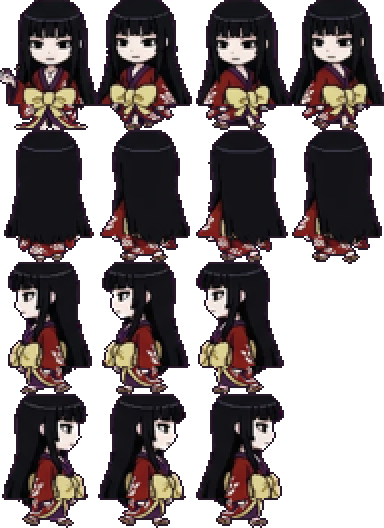
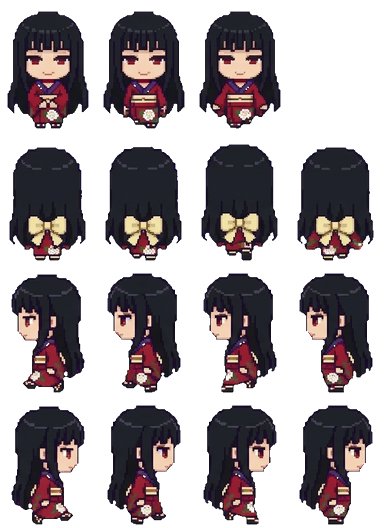
Redraw Ichihara Yuko in the shared art style
Claude-Session: https://claude.ai/code/session_01KaPsBYLrtbRfMYNG2xeBCK

diff --git a/docs/app.js b/docs/app.js
@@ -75,7 +75,7 @@ function spr(cat, k, col, sc) {
   return `<div class="clip" style="width:${it[2] * sc}px;height:${it[3] * sc}px;POS"><img class="px" src="assets/decor/${cat}.png" alt="" style="width:${S.sw * sc}px;height:${S.sh * sc}px;margin-left:${-col * S.cw * sc}px;margin-top:${-i * S.ch * sc}px"></div>`;
 }
 const icon = (k, sz) => `<span class="itm" style="width:${sz}px;height:${sz}px"><img class="px" src="assets/ui/items.png" alt="" style="width:${IT.length * sz}px;height:${sz}px;margin-left:${-ITM[k].i * sz}px"></span>`;
-const face = (id, w) => { const s = w / 96; return `<img class="px" src="assets/ch/${id}.webp?v=59" alt="" style="position:absolute;width:${384 * s}px;height:${528 * s}px;left:${-(96 * s - w) / 2}px;top:0;max-width:none">`; };
+const face = (id, w) => { const s = w / 96; return `<img class="px" src="assets/ch/${id}.webp?v=60" alt="" style="position:absolute;width:${384 * s}px;height:${528 * s}px;left:${-(96 * s - w) / 2}px;top:0;max-width:none">`; };
 
 // ---------- 저장 ----------
 let fb = null, user = null, S = null, saveT = null;
@@ -143,7 +143,7 @@ function sleepHTML(id, r, dy) {
   const pos = r.a && r.a[0] === 'bed' ? 'left:3%;bottom:20%' : r.b && r.b[0] === 'bed' ? 'right:3%;bottom:20%' : 'left:calc(50% - 44px);bottom:6%';
   const s = 36 / 96;
   return `<div style="position:absolute;width:88px;height:56px;${pos};z-index:${dy ? 4 : 5};${dy ? `transform:translate(12px,${dy}px)` : ''}"><div style="position:absolute;inset:0;filter:brightness(.22)">
-    <div style="position:absolute;left:11px;top:1px;width:36px;height:50px;overflow:hidden;transform:rotate(-90deg)"><img class="px" src="assets/ch/${id}.webp?v=59" alt="" style="width:${384 * s}px;height:${528 * s}px;max-width:none;margin-top:${-132 * s}px"></div>
+    <div style="position:absolute;left:11px;top:1px;width:36px;height:50px;overflow:hidden;transform:rotate(-90deg)"><img class="px" src="assets/ch/${id}.webp?v=60" alt="" style="width:${384 * s}px;height:${528 * s}px;max-width:none;margin-top:${-132 * s}px"></div>
     <div style="position:absolute;left:19px;top:19px;width:67px;height:29px;border:2px solid var(--ink);border-radius:8px 6px 4px 4px;background:#8ccff5;background-image:repeating-linear-gradient(90deg,transparent 0 10px,rgba(255,255,255,.5) 10px 13px)"></div></div>
     ${dy ? '' : '<span class="emo" style="left:8px;top:-22px;color:#5b6bd6">Z z z</span>'}</div>`;
 }
@@ -153,8 +153,8 @@ function roomHTML(id, o, scale) {
     <div class="floor" style="background-color:${PAL[r.fc][1]};background-image:${tileUrl('floor', r.fl)}"></div>
     ${slot('deco', r.dc, 'left:6%;top:6%')}${slot('furn', r.a, 'left:3%;bottom:20%')}${slot('furn', r.b, 'right:3%;bottom:20%')}${slot('prop', r.pr, 'left:28%;bottom:4%;z-index:2')}
     ${id && o.sleeping && g ? sleepHTML(g, r, -16) : ''}${id && o.sleeping ? sleepHTML(id, r) : ''}${id && o.job ? `<div style="position:absolute;left:50%;top:38%;transform:translateX(-50%);z-index:5;background:#fff;border:3px solid var(--ink);border-radius:10px;padding:6px 10px;font-size:11px;text-align:center;line-height:1.5"><img src="assets/ui/ic_job.png" alt="" style="width:18px;vertical-align:-4px"> ${WORK[id] ? WORK[id][1] : esc(JOB_NAME[id]) + ' 알바 중'}${g ? `<br><small>${esc(nameOf(g))}도 같이</small>` : ''}<br><b id="jobleft">${timeLeft(o.job.until)}</b></div>` : ''}
-    ${id ? `<div class="shadow" id="shd" ${o.sleeping || o.job ? 'style="display:none"' : ''}></div><div class="man" id="man" ${o.sleeping || o.job ? 'style="display:none"' : ''}><img class="px" src="assets/ch/${id}.webp?v=59" alt="${esc(nameOf(id))}"></div><span class="emo" id="emo" hidden></span><span class="mumble" id="mum" hidden></span>` : ''}
-    ${g ? `<div class="shadow" id="gshd" ${hideG}></div><div class="man" id="gman" ${hideG}><img class="px" src="assets/ch/${g}.webp?v=59" alt="${esc(nameOf(g))}"></div><span class="emo" id="gemo" hidden></span><span class="mumble gmum" id="gmum" hidden></span>` : ''}
+    ${id ? `<div class="shadow" id="shd" ${o.sleeping || o.job ? 'style="display:none"' : ''}></div><div class="man" id="man" ${o.sleeping || o.job ? 'style="display:none"' : ''}><img class="px" src="assets/ch/${id}.webp?v=60" alt="${esc(nameOf(id))}"></div><span class="emo" id="emo" hidden></span><span class="mumble" id="mum" hidden></span>` : ''}
+    ${g ? `<div class="shadow" id="gshd" ${hideG}></div><div class="man" id="gman" ${hideG}><img class="px" src="assets/ch/${g}.webp?v=60" alt="${esc(nameOf(g))}"></div><span class="emo" id="gemo" hidden></span><span class="mumble gmum" id="gmum" hidden></span>` : ''}
     ${o.sleeping ? `<div class="night"></div><div class="sleepleft">쿨쿨 · 일어나기까지 <b id="sleepleft">${timeLeft(wakeAt(o)).replace(' 남음', '')}</b></div>` : ''}
   </div>`;
 }
@@ -167,7 +167,7 @@ function meterHTML(o) {
 const ic = (act, img, label, pressed) => `<button class="ic" data-act="${act}" ${pressed ? 'aria-pressed="true"' : ''}><img src="assets/ui/ic_${img}.png?v=2" alt="">${label}</button>`;
 
 let dropStyle = null; const cheat = {};
-const APP_V = 131, COUPONS = { NINOGUYA: 3000 };
+const APP_V = 132, COUPONS = { NINOGUYA: 3000 };
 // 쿠폰 입력 정리: 한글 자판 상태로 친 글자(ㅜㅑㅜㅐ혀ㅛㅁ)도 영어 자판 글자로 바꾸고, 대소문자·띄어쓰기·마침표는 무시해요
 const KEY = { ㄱ: 'r', ㄲ: 'R', ㄴ: 's', ㄷ: 'e', ㄸ: 'E', ㄹ: 'f', ㅁ: 'a', ㅂ: 'q', ㅃ: 'Q', ㅅ: 't', ㅆ: 'T', ㅇ: 'd', ㅈ: 'w', ㅉ: 'W', ㅊ: 'c', ㅋ: 'z', ㅌ: 'x', ㅍ: 'v', ㅎ: 'g',
   ㅏ: 'k', ㅐ: 'o', ㅑ: 'i', ㅒ: 'O', ㅓ: 'j', ㅔ: 'p', ㅕ: 'u', ㅖ: 'P', ㅗ: 'h', ㅘ: 'hk', ㅙ: 'ho', ㅚ: 'hl', ㅛ: 'y', ㅜ: 'n', ㅝ: 'nj', ㅞ: 'np', ㅟ: 'nl', ㅠ: 'b', ㅡ: 'm', ㅢ: 'ml', ㅣ: 'l',
@@ -407,7 +407,7 @@ function startTrip(k) {
   if (tg) lines[1] = `${nameOf(tg)}: ${withHim(sub(pick(GLX(tg).trip), o, c.n), tg)}`;
   const n = (FR[id] || [4, 4, 4, 4])[3], el = document.createElement('div'); el.className = 'tripview';
   el.innerHTML = `<div class="tsay"> </div><div class="tstage" style="background-image:url(assets/travel/${k}.png?v=2)"><div class="tplace">${esc(c.n)}</div>
-    <div class="twalker"><img class="px" src="assets/ch/${id}.webp?v=59" alt=""></div>${tg ? `<div class="twalker tgirl"><img class="px" src="assets/ch/${tg}.webp?v=59" alt=""></div>` : ''}<span class="emo tjoy">♪</span></div>
+    <div class="twalker"><img class="px" src="assets/ch/${id}.webp?v=60" alt=""></div>${tg ? `<div class="twalker tgirl"><img class="px" src="assets/ch/${tg}.webp?v=60" alt=""></div>` : ''}<span class="emo tjoy">♪</span></div>
     <div class="tbar"><i></i></div><button class="btn white tskip" data-tskip="1">바로 돌아오기</button>`;
   document.body.appendChild(el);
   const gimg = el.querySelector('.tgirl img'), gn = tg ? (FR[tg] || [4, 4, 4, 4])[3] : 1;
@@ -636,7 +636,7 @@ setInterval(() => { if (S && user) { tickTime(); save(); } }, 60000);
     if (nv > APP_V && !location.search.includes('u=' + nv)) { location.replace(location.pathname + '?u=' + nv); return; }
   } catch { }
   app.innerHTML = '<div class="start"><div class="egg"><div class="scr"></div></div><div class="note">불러오는 중....</div></div>';
-  const [c, t, f, it, mu, ct, tv, gl, sts] = await Promise.all(['data/chars.json', 'data/talk.json', 'data/frames.json', 'data/items.json', 'data/mumble.json', 'data/countries.json', 'data/travel.json', 'data/girls.json', 'data/sets.json'].map(u => fetch(u + '?v=131').then(r => r.ok ? r.json() : {})));
+  const [c, t, f, it, mu, ct, tv, gl, sts] = await Promise.all(['data/chars.json', 'data/talk.json', 'data/frames.json', 'data/items.json', 'data/mumble.json', 'data/countries.json', 'data/travel.json', 'data/girls.json', 'data/sets.json'].map(u => fetch(u + '?v=132').then(r => r.ok ? r.json() : {})));
   CH = c; CHM = Object.fromEntries(c.map(x => [x.id, x])); TALK = t; FR = f; IT = it; ITM = Object.fromEntries(it.map(x => [x.k, x])); MUM = mu; CTRY = ct; TRV = tv; GL = Array.isArray(gl) ? gl : []; SETS = Array.isArray(sts) ? sts : []; GLM = Object.fromEntries(GL.map(x => [x.id, x]));
   try { await initFirebase(); } catch (e) { console.warn('Firebase 연결 실패, 기기 저장으로', e); fb = null; }
   if (fb) {

diff --git a/docs/index.html b/docs/index.html
@@ -18,6 +18,6 @@
 <main id="app" aria-live="polite"></main>
 <div id="toast" role="status" hidden></div>
 <script src="firebase-config.js?v=3"></script>
-<script type="module" src="app.js?v=131"></script>
+<script type="module" src="app.js?v=132"></script>
 </body>
 </html>
